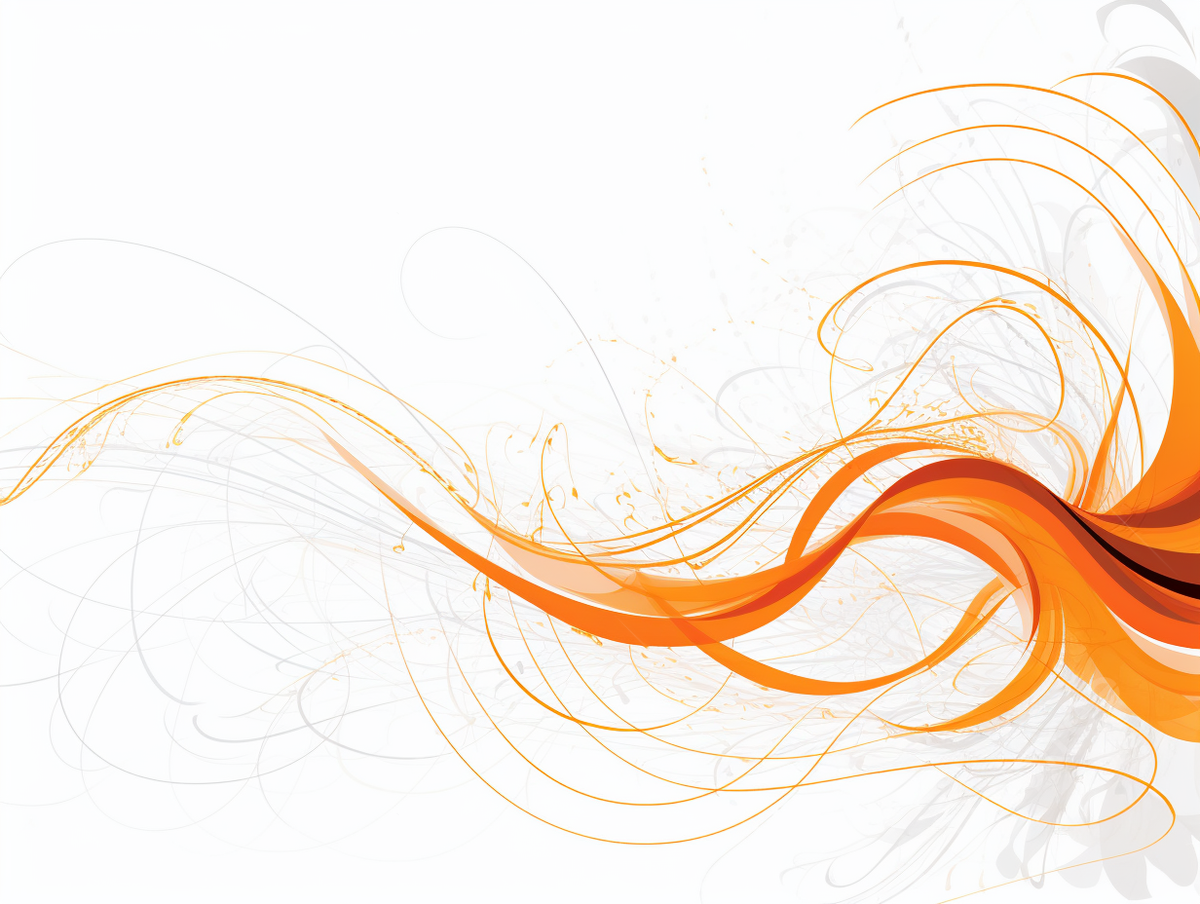
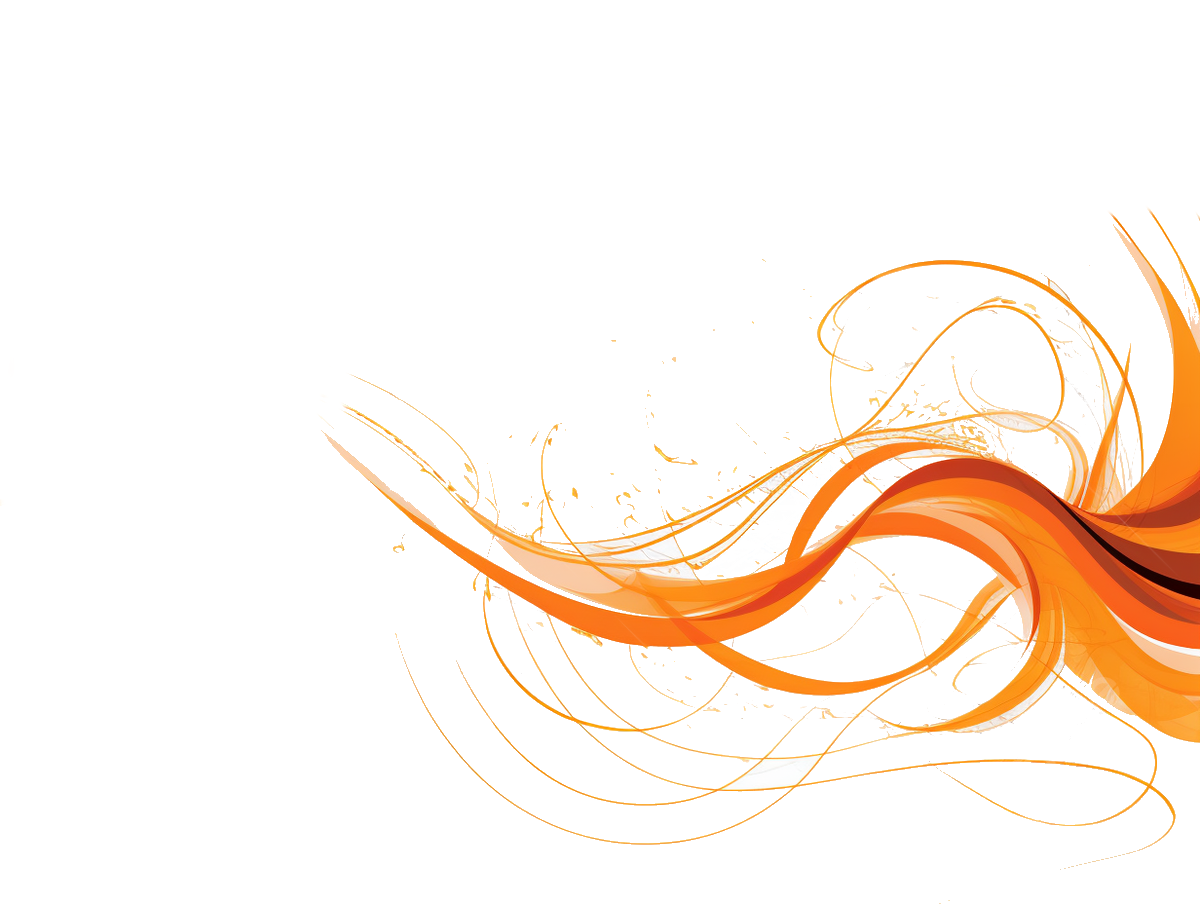
update

diff --git a/estilos/home/gestao-redes.css b/estilos/home/gestao-redes.css
@@ -1,6 +1,6 @@
 .gestao-redes-bg{
     background-image: url(../../images/fundo-laranja.png);
-    background-position: center center;
+    background-position: center right;
     background-repeat: no-repeat;
     background-size: cover;
     height: 700px;
